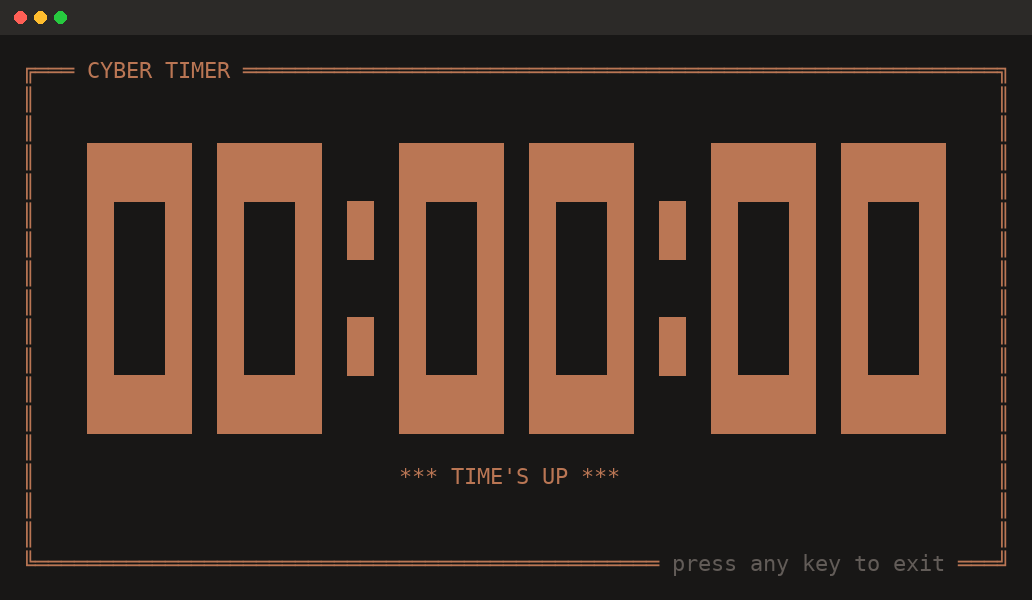
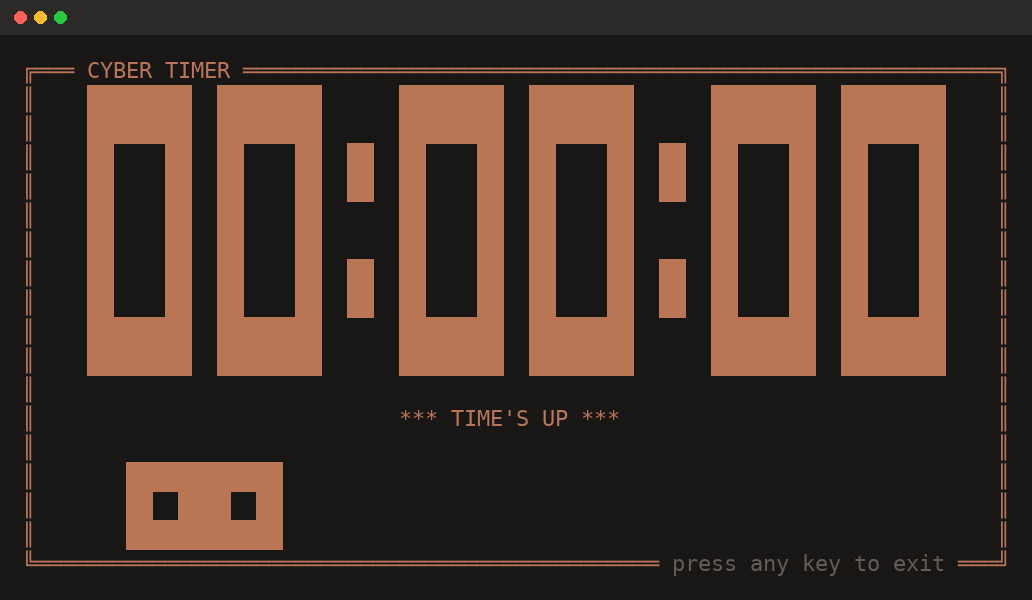
Add a hopping slime
A slime built from the same tiles as the digits, with its eyes left
unpainted so the row background shows through. It squashes and stretches
as it bounces wall to wall on a 250ms animation tick, blinks
periodically, and sleeps with its eyes shut while paused (which also
stops the repaint, since nothing moves).

It only claims the bottom band when there is room to spare after the
digits, so it never crowds out the clock on a small terminal. Position
is derived from a tick counter, keeping renderFrame a pure function of
state. Hide it with --no-slime.

diff --git a/lib/render.js b/lib/render.js
@@ -149,6 +149,55 @@ function buildLapLines(laps, theme, maxWidth, maxRows) {
   return lines;
 }
 
+// A slime built from the same tiles as the digits. '#' is a lit tile; the eyes
+// are left blank so the row background shows straight through them.
+const SLIME_PIXEL_W = 2;
+const SLIME_ROWS = 3;
+const SLIME_SPRITES = {
+  // Stretched mid-hop, then squashed on landing. Alternating the two while it
+  // travels sideways reads as a hop without needing a taller band.
+  stretch: ['######', '# ## #', '######'],
+  squash: ['      ', '# ## #', '######'],
+  // Eyes closed: asleep while paused, and for a single tick when blinking.
+  shut: ['      ', '######', '######'],
+};
+const SLIME_PIXELS = SLIME_SPRITES.stretch[0].length;
+const SLIME_WIDTH = SLIME_PIXELS * SLIME_PIXEL_W;
+const BLINK_EVERY = 24;
+
+const SLIME_MARGIN = 1;
+
+function slimeSprite(tick, paused) {
+  if (paused) return SLIME_SPRITES.shut;
+  // Offset so tick 0 is not a blink — the first frame should have eyes.
+  if (tick % BLINK_EVERY === BLINK_EVERY - 1) return SLIME_SPRITES.shut;
+  return tick % 2 === 0 ? SLIME_SPRITES.stretch : SLIME_SPRITES.squash;
+}
+
+// Bounces between the two walls. Derived purely from the tick so the frame
+// stays a function of state.
+function slimeX(tick, span) {
+  if (span <= 0) return 0;
+  const p = tick % (span * 2);
+  return p < span ? p : span * 2 - p;
+}
+
+function buildSlimeRows(tick, paused, interior, color) {
+  const span = interior - SLIME_WIDTH - SLIME_MARGIN * 2;
+  const x = SLIME_MARGIN + slimeX(tick, span);
+  const sprite = slimeSprite(tick, paused);
+  return sprite.map((row) => {
+    let body = '';
+    for (const px of row) body += (px === '#' ? '█' : ' ').repeat(SLIME_PIXEL_W);
+    const line = ' '.repeat(x) + body;
+    return fg(...color, line) + ' '.repeat(Math.max(0, interior - visibleLength(line)));
+  });
+}
+
+function rawRow(width, content, color) {
+  return fg(...color, '║') + content + fg(...color, '║');
+}
+
 function renderFrame({
   cols,
   rows,
@@ -161,6 +210,8 @@ function renderFrame({
   inverted = false,
   laps = [],
   paused = false,
+  tick = 0,
+  slime = true,
 }) {
   const width = Math.max(cols, 20);
   const height = Math.max(rows, 10);
@@ -193,19 +244,28 @@ function renderFrame({
   }
 
   const interiorHeight = height - 2;
+  const interior = width - 2;
+
+  // The slime gets the bottom band, but only when there is room to spare after
+  // the digits — it is decoration and must never crowd out the clock.
+  const showSlime =
+    slime &&
+    interior >= SLIME_WIDTH + SLIME_MARGIN * 2 &&
+    interiorHeight - contentBlock.length >= SLIME_ROWS + 1;
+  const slimeRows = showSlime ? buildSlimeRows(tick, paused, interior, color) : [];
 
   // Laps sit flush against the bottom-left, claiming rows from the bottom
   // padding only — the digits stay centered in whatever space is left, so a
   // growing lap list never pushes them off-center or off-screen.
-  const freeRows = Math.max(0, interiorHeight - contentBlock.length);
+  const freeRows = Math.max(0, interiorHeight - contentBlock.length - slimeRows.length);
   const lapLines = buildLapLines(
     laps,
     theme,
-    Math.max(0, width - 2 - LAP_INDENT * 2),
+    Math.max(0, interior - LAP_INDENT * 2),
     Math.max(0, Math.min(freeRows - 1, MAX_LAP_ROWS)),
   );
 
-  const centeredHeight = interiorHeight - lapLines.length;
+  const centeredHeight = interiorHeight - lapLines.length - slimeRows.length;
   const topPad = Math.max(0, Math.floor((centeredHeight - contentBlock.length) / 2));
   const bottomPad = Math.max(0, centeredHeight - contentBlock.length - topPad);
 
@@ -219,6 +279,7 @@ function renderFrame({
   for (const line of contentBlock) out.push(sideRow(width, line, color));
   for (let i = 0; i < bottomPad; i++) out.push(sideRow(width, '', color));
   for (const line of lapLines) out.push(leftRow(width, line, color));
+  for (const line of slimeRows) out.push(rawRow(width, line, color));
   out.push(bottomBorder(width, hint, color, theme));
 
   // Paint the row's background across its full width, then hard-reset at the

diff --git a/lib/app.js b/lib/app.js
@@ -33,6 +33,7 @@ ${fg(...ACCENT, 'Options:')}
   -t, --title <text>   custom label shown in the title bar (default: CYBER TIMER / STOPWATCH)
   -s, --silent          disable the completion beep (countdown only)
   -i, --invert          start in the flipped theme
+      --no-slime        hide the hopping slime
   -h, --help            show this help
 
 ${fg(...ACCENT, 'Keys:')}
@@ -58,6 +59,7 @@ function parseArgs(argv) {
     duration: null,
     mode: 'countdown',
     invert: false,
+    slime: true,
   };
   const rest = [];
   for (let i = 0; i < argv.length; i++) {
@@ -68,6 +70,8 @@ function parseArgs(argv) {
       args.silent = true;
     } else if (a === '-i' || a === '--invert') {
       args.invert = true;
+    } else if (a === '--no-slime') {
+      args.slime = false;
     } else if (a === '-t' || a === '--title') {
       args.title = argv[++i] || args.title;
     } else {
@@ -123,9 +127,11 @@ function run(argv) {
   let elapsed = 0;
   let finished = false;
   let interval = null;
+  let animInterval = null;
   let exiting = false;
   let inverted = args.invert;
   let paused = false;
+  let tick = 0;
   const laps = [];
 
   function draw() {
@@ -141,6 +147,8 @@ function run(argv) {
       inverted,
       laps,
       paused,
+      tick,
+      slime: args.slime,
     });
     process.stdout.write(CURSOR_HOME + frame);
   }
@@ -168,6 +176,7 @@ function run(argv) {
     if (exiting) return;
     exiting = true;
     if (interval) clearInterval(interval);
+    if (animInterval) clearInterval(animInterval);
     process.stdout.write(SHOW_CURSOR + EXIT_ALT_SCREEN);
     if (process.stdin.isTTY) process.stdin.setRawMode(false);
     process.stdin.pause();
@@ -240,6 +249,16 @@ function run(argv) {
     }
     draw();
   }, 1000);
+
+  // The slime animates faster than the clock ticks. Paused means asleep, so
+  // nothing moves and there is nothing to repaint.
+  if (args.slime) {
+    animInterval = setInterval(() => {
+      if (paused) return;
+      tick += 1;
+      draw();
+    }, 250);
+  }
 }
 
 module.exports = { run, parseArgs };

diff --git a/README.md b/README.md
@@ -72,6 +72,23 @@ Stopped — elapsed 00:03:47
   LAP 04  00:03:25  +00:00:47
 ```
 
+### The slime
+
+A slime hops along the floor of the box while the timer runs. It is built from
+the same tiles as the digits, and its two eyes are simply left unpainted so the
+background shows through them.
+
+```
+  ████████████        ████████████
+  ██  ████  ██        ████████████
+  ████████████        ████████████
+     hopping             asleep
+```
+
+It squashes and stretches as it bounces wall to wall, blinks now and then, and
+curls up with its eyes shut while the timer is paused. Hide it with
+`--no-slime`.
+
 ### Themes
 
 `Tab` flips between the default theme — muted ember drawn straight onto your
@@ -108,6 +125,7 @@ Quitting early prints how much time was left (countdown) or how long it ran
 | `-t, --title <text>` | label in the title bar (default `CYBER TIMER` / `STOPWATCH`)  |
 | `-s, --silent`       | disable the completion beep (countdown only)                  |
 | `-i, --invert`       | start in the flipped panel theme                              |
+| `--no-slime`         | hide the hopping slime                                        |
 | `-h, --help`         | show help                                                     |
 
 ```bash
